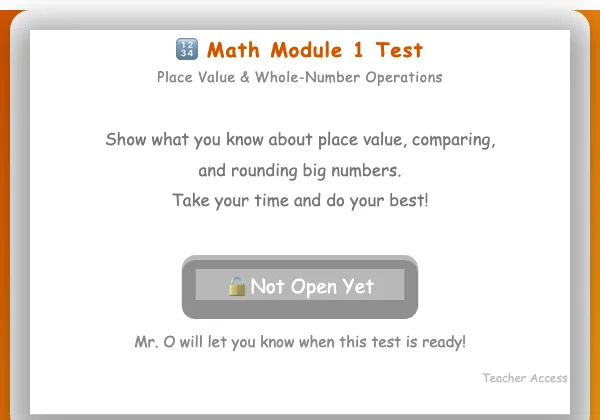
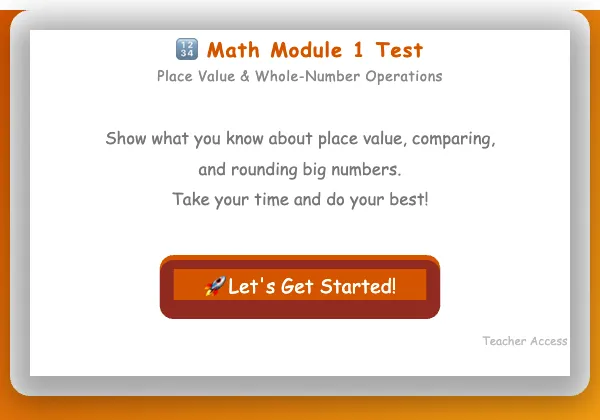
fix: replace MM1 Test card thumbnail with a screenshot of the open test

diff --git a/index.html b/index.html
@@ -377,7 +377,7 @@
 
         <a href="https://molivera1977.github.io/math-module-1-test/" class="card" target="_blank">
             <div class="card-image">
-                <img loading="lazy" src="images/math-module-1-test.webp" alt="Math Module 1 Test">
+                <img loading="lazy" src="images/math-module-1-test.webp?v=open" alt="Math Module 1 Test">
             </div>
             <div class="card-content">
                 <div class="card-title">Math Module 1 Test</div>
